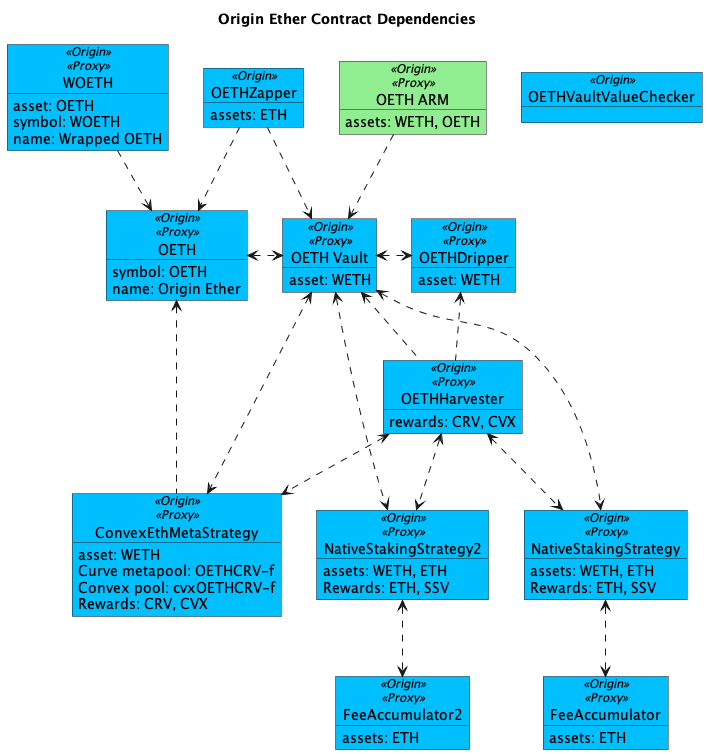
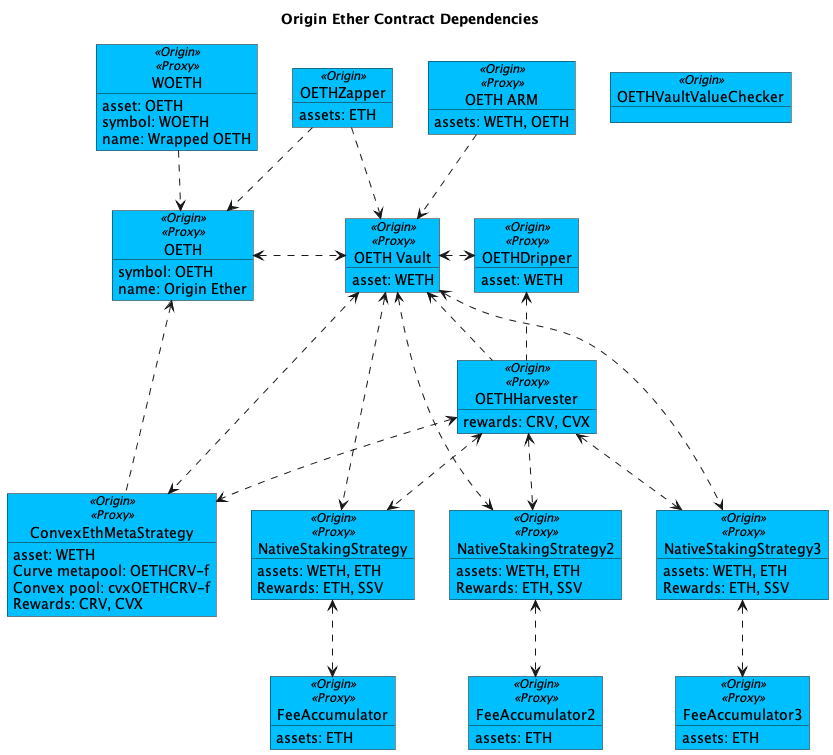
Deposit front-running checks before staking to validators (#2311)
* Added snapValidators Hardhat task

* Added run log to transfer SSV and deposit WETH to new staking strategy

* Added new staking strat address to Brownie scripts

* Added third staking strategy to Defender Actions

* Added check that validators do not exist before staking deposit in Defender Action

* Updated OETH contracts diagram

* Changed front-run protection logic

* Run log to deposit 3,200 WETH to the new staking strategy

* Prettier JS code

* Fix staking for tests when there are a lot of consensus rewards already in the contract

* Add ethers import

diff --git a/contracts/utils/validator.js b/contracts/utils/validator.js
@@ -1,4 +1,5 @@
 const fetch = require("node-fetch");
+const { ethers } = require("ethers");
 const { defaultAbiCoder, formatUnits, hexDataSlice, parseEther, keccak256 } =
   require("ethers").utils;
 const { v4: uuidv4 } = require("uuid");
@@ -6,6 +7,7 @@ const { v4: uuidv4 } = require("uuid");
 const { storePrivateKeyToS3 } = require("./amazon");
 const { sleep } = require("./time");
 const { p2pApiEncodedKey } = require("./constants");
+const { mainnet } = require("./addresses");
 
 const log = require("./logger")("task:p2p");
 
@@ -579,9 +581,11 @@ const depositEth = async (
   pubkeys,
   depositData
 ) => {
-  // const { signature, depositDataRoot } = depositData;
   try {
     log(`About to stake ETH with:`);
+
+    // Check none of the validators are already registered
+    await depositFrontRunCheck(pubkeys, nativeStakingStrategy.provider);
 
     const validatorsStakeData = depositData.map((d) => ({
       pubkey: d.pubkey,
@@ -602,6 +606,44 @@ const depositEth = async (
     log(`Submitting transaction failed with: `, e);
     //await clearState(uuid, store, `Transaction to deposit to validator fails`)
     throw e;
+  }
+};
+
+const depositFrontRunCheck = async (pubkeys, provider) => {
+  const latestBlock = await provider.getBlockNumber();
+
+  // Create a contract instance
+  const depositContract = new ethers.Contract(
+    // Address
+    mainnet.beaconChainDepositContract,
+    // ABI
+    [
+      "event DepositEvent(bytes pubkey, bytes withdrawal_credentials, bytes amount, bytes signature, bytes index)",
+    ],
+    provider
+  );
+
+  // Check the events from the last 1000 blocks
+  const recentBlocks = 1000;
+  const filter = {
+    address: depositContract.address,
+    topics: [
[1 lines of base64/hex data omitted]
+    ],
+    fromBlock: latestBlock - recentBlocks,
+    toBlock: "latest",
+  };
+  const logs = await provider.getLogs(filter);
+  log(`Checking ${logs.length} logs for duplicate deposits of public keys:`);
+  log(pubkeys);
+
+  for (const eventLog of logs) {
+    const parsedLog = depositContract.interface.parseLog(eventLog);
+    const eventPubkey = parsedLog.args.pubkey;
+
+    if (pubkeys.includes(eventPubkey.toLowerCase())) {
+      throw Error(`Validator with pubkey ${eventPubkey} has already deposited`);
+    }
   }
 };
 

diff --git a/contracts/tasks/validator.js b/contracts/tasks/validator.js
@@ -5,13 +5,14 @@ const {
 
 const { getBlock } = require("./block");
 const { checkPubkeyFormat } = require("./taskUtils");
-const { getValidator, getEpoch } = require("./beaconchain");
+const { getValidator, getValidators, getEpoch } = require("./beaconchain");
 const addresses = require("../utils/addresses");
 const { resolveContract } = require("../utils/resolvers");
 const { logTxDetails } = require("../utils/txLogger");
 const { networkMap } = require("../utils/hardhat-helpers");
 const { convertToBigNumber } = require("../utils/units");
 const { validatorsThatCanBeStaked } = require("../utils/validator");
+const { validatorKeys } = require("../utils/regex");
 
 const log = require("../utils/logger")("task:p2p");
 
@@ -108,6 +109,37 @@ async function verifyMinActivationTime({ pubkey }) {
     throw new Error(
       `Can not exit validator. Validator needs to be ` +
         `active for 256 epoch. Current one active for ${epochDiff}`
+    );
+  }
+}
+
+async function getValidatorBalances({ pubkeys }) {
+  const validator = await getValidators(pubkeys);
+
+  // for
+  log(
+    `Validator balance of ${formatUnits(
+      validator.balance
+    )} for pub keys ${pubkeys}`
+  );
+  return validator.balance;
+}
+
+async function snapValidators({ pubkeys }) {
+  if (!pubkeys.match(validatorKeys)) {
+    throw Error(
+      `Public keys not a comma-separated list of public keys with 0x prefixes`
+    );
+  }
+  const validators = await getValidators(pubkeys);
+
+  console.log(`Validators details`);
+  console.log(`pubkey, balance, status, withdrawalcredentials`);
+  for (const validator of validators) {
+    console.log(
+      `${validator.pubkey}, ${formatUnits(validator.balance, 9)}, ${
+        validator.status
+      }, ${validator.withdrawalcredentials}`
     );
   }
 }
@@ -336,4 +368,6 @@ module.exports = {
   snapStaking,
   resolveNativeStakingStrategyProxy,
   resolveFeeAccumulatorProxy,
+  getValidatorBalances,
+  snapValidators,
 };

diff --git a/contracts/test/behaviour/ssvStrategy.js b/contracts/test/behaviour/ssvStrategy.js
@@ -537,13 +537,21 @@ const shouldBehaveLikeAnSsvStrategy = (context) => {
     let consensusRewardsBefore;
     let activeDepositedValidatorsBefore = 30000;
     beforeEach(async () => {
-      const { nativeStakingSSVStrategy, validatorRegistrator, weth } =
-        await context();
+      const {
+        nativeStakingSSVStrategy,
+        oethHarvester,
+        validatorRegistrator,
+        weth,
+      } = await context();
 
       // clear any ETH sitting in the strategy
       await nativeStakingSSVStrategy
         .connect(validatorRegistrator)
         .doAccounting();
+      // Clear out any consensus rewards
+      // prettier-ignore
+      await oethHarvester
+      .connect(validatorRegistrator)["harvestAndSwap(address)"](nativeStakingSSVStrategy.address);
 
       // Set the number validators to a high number
       await setStorageAt(
@@ -612,6 +620,14 @@ const shouldBehaveLikeAnSsvStrategy = (context) => {
       const tx = await nativeStakingSSVStrategy
         .connect(validatorRegistrator)
         .doAccounting();
+
+      expect(
+        await nativeStakingSSVStrategy.provider.getBalance(
+          nativeStakingSSVStrategy.address
+        ),
+        rewards,
+        "ETH balance after"
+      );
 
       await expect(tx)
         .to.emit(nativeStakingSSVStrategy, "AccountingFullyWithdrawnValidator")

diff --git a/contracts/tasks/tasks.js b/contracts/tasks/tasks.js
@@ -100,6 +100,7 @@ const {
   pauseStaking,
   snapStaking,
   resolveNativeStakingStrategyProxy,
+  snapValidators,
 } = require("./validator");
 const { registerValidators, stakeValidators } = require("../utils/validator");
 const { harvestAndSwap } = require("./harvest");
@@ -1570,6 +1571,24 @@ subtask("snapVault", "Takes a snapshot of a OETH Vault")
   )
   .setAction(snapVault);
 task("snapVault").setAction(async (_, __, runSuper) => {
+  return runSuper();
+});
+
+subtask("snapValidators", "Takes a snapshot of a validator")
+  .addOptionalParam(
+    "block",
+    "Block number. (default: latest)",
+    undefined,
+    types.int
+  )
+  .addParam(
+    "pubkeys",
+    "Comma separated list of validator public keys",
+    undefined,
+    types.string
+  )
+  .setAction(snapValidators);
+task("snapValidators").setAction(async (_, __, runSuper) => {
   return runSuper();
 });
 

diff --git a/contracts/scripts/defender-actions/harvest.js b/contracts/scripts/defender-actions/harvest.js
@@ -43,6 +43,13 @@ const handler = async (event) => {
     `Resolved second Native Staking Strategy address to ${secondNativeStakingProxyAddress}`
   );
   await harvest(harvester, secondNativeStakingProxyAddress, signer, "second");
+
+  const thirdNativeStakingProxyAddress =
+    addresses[networkName].NativeStakingSSVStrategy3Proxy;
+  log(
+    `Resolved third Native Staking Strategy address to ${thirdNativeStakingProxyAddress}`
+  );
+  await harvest(harvester, thirdNativeStakingProxyAddress, signer, "third");
 };
 
 const harvest = async (

diff --git a/contracts/tasks/beaconchain.js b/contracts/tasks/beaconchain.js
@@ -44,11 +44,20 @@ const getValidator = async (pubkey) => {
   return await beaconchainRequest(`validator/${pubkey}`);
 };
 
+const getValidators = async (pubkeys, beaconChainApiKey) => {
+  const encodedPubkeys = encodeURIComponent(pubkeys);
+  return await beaconchainRequest(
+    `validator/${encodedPubkeys}`,
+    beaconChainApiKey
+  );
+};
+
 const getEpoch = async (epochId = "latest") => {
   return await beaconchainRequest(`epoch/${epochId}`);
 };
 
 module.exports = {
   getValidator,
+  getValidators,
   getEpoch,
 };

diff --git a/contracts/utils/regex.js b/contracts/utils/regex.js
@@ -8,6 +8,9 @@ const transactionHash = bytes32;
 
 const privateKey = /^[A-Fa-f0-9]{1,64}$/;
 
+const validatorKey = /^0x[0-9a-fA-F]{96}$/;
+const validatorKeys = /^0x[0-9a-fA-F]{96}(,0x[0-9a-fA-F]{96})*$/;
+
 module.exports = {
   bytes,
   bytesFixed,
@@ -15,4 +18,6 @@ module.exports = {
   ethereumAddress,
   transactionHash,
   privateKey,
+  validatorKey,
+  validatorKeys,
 };

diff --git a/contracts/scripts/defender-actions/registerValidators.js b/contracts/scripts/defender-actions/registerValidators.js
@@ -31,7 +31,7 @@ const handler = async (event) => {
   log(`Network: ${networkName} with chain id (${network.chainId})`);
 
   const nativeStakingProxyAddress =
-    addresses[networkName].NativeStakingSSVStrategy2Proxy;
+    addresses[networkName].NativeStakingSSVStrategy3Proxy;
   log(
     `Resolved Native Staking Strategy address to ${nativeStakingProxyAddress}`
   );

diff --git a/contracts/scripts/defender-actions/stakeValidators.js b/contracts/scripts/defender-actions/stakeValidators.js
@@ -31,7 +31,7 @@ const handler = async (event) => {
   log(`Network: ${networkName} with chain id (${network.chainId})`);
 
   const nativeStakingProxyAddress =
-    addresses[networkName].NativeStakingSSVStrategy2Proxy;
+    addresses[networkName].NativeStakingSSVStrategy3Proxy;
   log(
     `Resolved Native Staking Strategy address to ${nativeStakingProxyAddress}`
   );

diff --git a/contracts/scripts/defender-actions/doAccounting.js b/contracts/scripts/defender-actions/doAccounting.js
@@ -26,6 +26,7 @@ const handler = async (event) => {
 
   await doAccounting("NativeStakingSSVStrategyProxy", networkName, signer);
   await doAccounting("NativeStakingSSVStrategy2Proxy", networkName, signer);
+  await doAccounting("NativeStakingSSVStrategy3Proxy", networkName, signer);
 };
 
 const doAccounting = async (proxyName, networkName, signer) => {

diff --git a/brownie/runlogs/2024_11_strategist.py b/brownie/runlogs/2024_11_strategist.py
@@ -65,6 +65,46 @@ def main():
       )
     )
 
+# -------------------------------------
+# Nov 19, 2024 - Deposit 96 WETH to the Third Native Staking Strategy
+# -------------------------------------
+from world import *
+
+def main():
+  with TemporaryForkForReallocations() as txs:
+    # Before
+    txs.append(vault_oeth_core.rebase(std))
+    txs.append(oeth_vault_value_checker.takeSnapshot(std))
+
+    # Send 100 SSV to the third Native Staking Strategy
+    ssv.transfer(
+      OETH_NATIVE_STAKING_3_STRAT, 
+      100 * 10**18,
+      {'from': STRATEGIST}
+    )
+
+    # Deposit WETH to Native Staking Strategy
+    txs.append(
+      vault_oeth_admin.depositToStrategy(
+        OETH_NATIVE_STAKING_3_STRAT, 
+        [WETH], 
+        # 3 validator
+        [96 * 10**18],
+        std
+      )
+    )
+
+    # After
+    vault_change = vault_oeth_core.totalValue() - oeth_vault_value_checker.snapshots(STRATEGIST)[0]
+    supply_change = oeth.totalSupply() - oeth_vault_value_checker.snapshots(STRATEGIST)[1]
+    profit = vault_change - supply_change
+    txs.append(oeth_vault_value_checker.checkDelta(profit, (1 * 10**18), vault_change, (1 * 10**18), std))
+    print("-----")
+    print("Profit", "{:.6f}".format(profit / 10**18), profit)
+    print("OETH supply change", "{:.6f}".format(supply_change / 10**18), supply_change)
+    print("Vault Change", "{:.6f}".format(vault_change / 10**18), vault_change)
+    print("-----")
+
 # -------------------------------------------
 # Nov 20 2024 - Add 150 SSV to second Native Staking SSV Cluster
 # -------------------------------------------
@@ -94,3 +134,36 @@ def main():
         {'from': STRATEGIST}
       )
     )
+
+# -------------------------------------
+# Nov 21, 2024 - Deposit 3,200 WETH to the Third Native Staking Strategy
+# -------------------------------------
+from world import *
+
+def main():
+  with TemporaryForkForReallocations() as txs:
+    # Before
+    txs.append(vault_oeth_core.rebase(std))
+    txs.append(oeth_vault_value_checker.takeSnapshot(std))
+
+    # Deposit WETH to Native Staking Strategy
+    txs.append(
+      vault_oeth_admin.depositToStrategy(
+        OETH_NATIVE_STAKING_3_STRAT, 
+        [WETH], 
+        # 100 validator
+        [3200 * 10**18],
+        std
+      )
+    )
+
+    # After
+    vault_change = vault_oeth_core.totalValue() - oeth_vault_value_checker.snapshots(STRATEGIST)[0]
+    supply_change = oeth.totalSupply() - oeth_vault_value_checker.snapshots(STRATEGIST)[1]
+    profit = vault_change - supply_change
+    txs.append(oeth_vault_value_checker.checkDelta(profit, (1 * 10**18), vault_change, (1 * 10**18), std))
+    print("-----")
+    print("Profit", "{:.6f}".format(profit / 10**18), profit)
+    print("OETH supply change", "{:.6f}".format(supply_change / 10**18), supply_change)
+    print("Vault Change", "{:.6f}".format(vault_change / 10**18), vault_change)
+    print("-----")

diff --git a/brownie/addresses.py b/brownie/addresses.py
@@ -54,6 +54,7 @@ OETH_FRAX_ETH_STRAT = '0x3ff8654d633d4ea0fae24c52aec73b4a20d0d0e5'
 OETH_FRAX_ETH_REDEEM_STRAT = '0x95A8e45afCfBfEDd4A1d41836ED1897f3Ef40A9e'
 OETH_NATIVE_STAKING_STRAT = '0x34edb2ee25751ee67f68a45813b22811687c0238'
 OETH_NATIVE_STAKING_2_STRAT = '0x4685db8bf2df743c861d71e6cfb5347222992076'
+OETH_NATIVE_STAKING_3_STRAT = '0xE98538A0e8C2871C2482e1Be8cC6bd9F8E8fFD63'
 OETH_LIDO_WITHDRAWAL_STRAT = '0xD9B488280d723338Dd32d56b3900f379Eb7A7aF1'
 OETH_ARM = '0x6bac785889A4127dB0e0CeFEE88E0a9F1Aaf3cC7'
 
